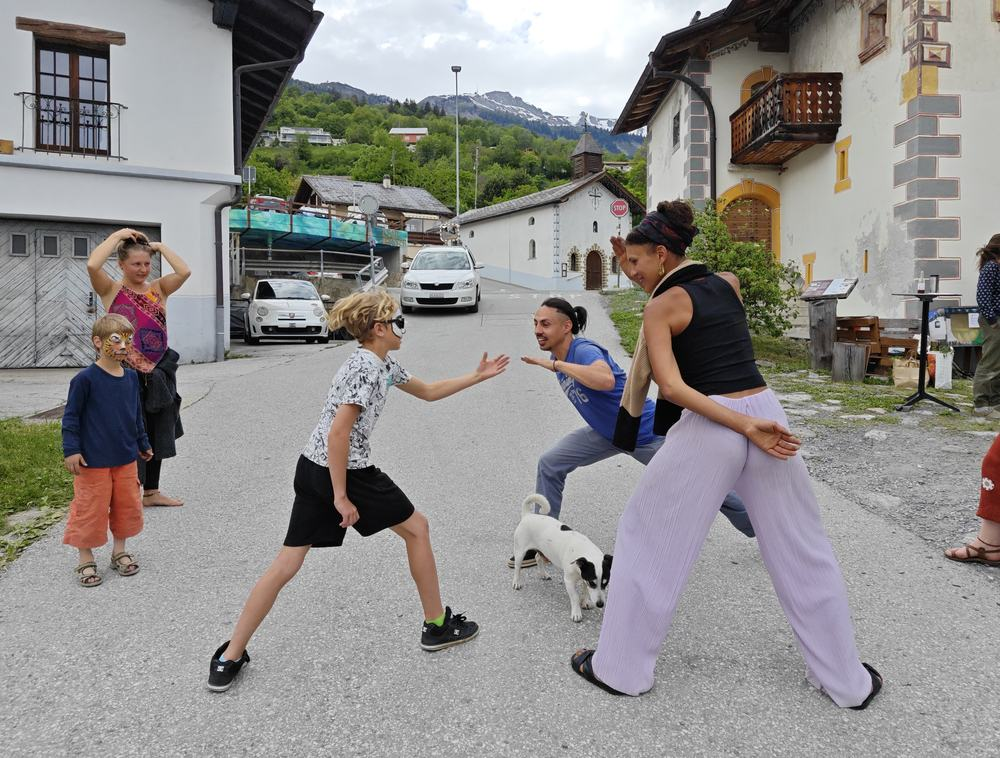
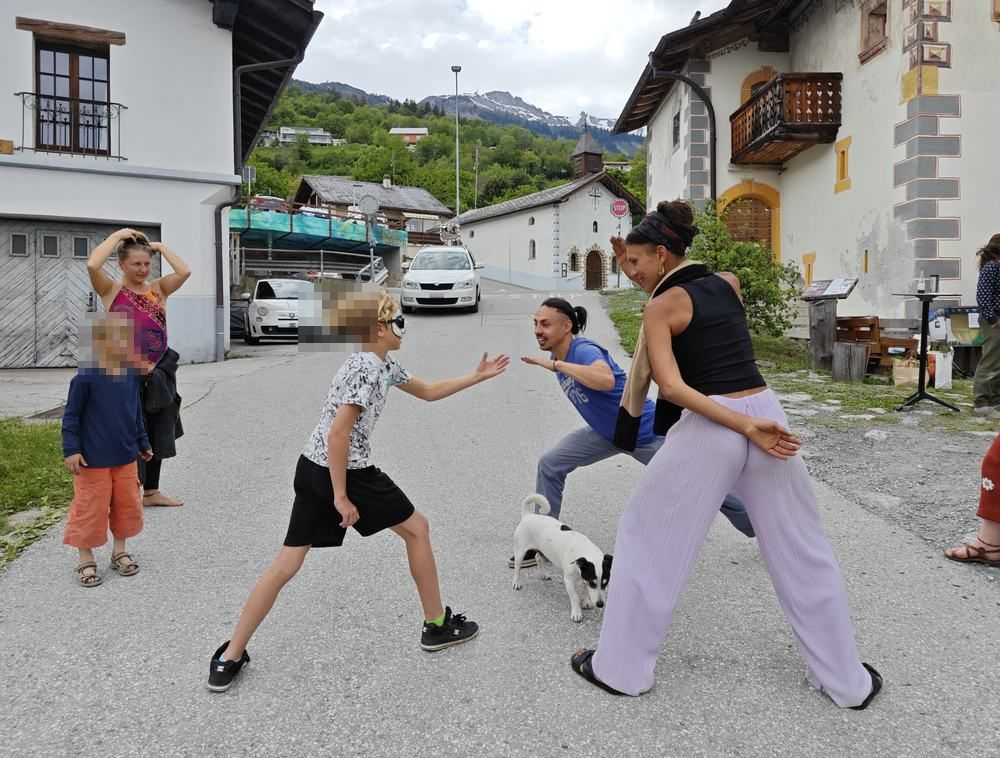
Corriger la pixelisation (visages seulement) et un bug de hauteur des flip cards
Pixelisation : l'effet mosaïque sur toute la photo ne correspondait pas à
la demande ("un tout petit peu" ou juste les visages). Retiré entièrement
des photos de mains (aucun visage, aucune raison de les flouter) et
remplacé sur la photo du jeu du ninja par une pixelisation localisée aux
deux visages d'enfants uniquement (crop + mosaïque + recollage), le reste
de la photo reste net. Fichiers -pixel.jpg (miniatures basse résolution)
supprimés, plus nécessaires. La photo du jeu du ninja peut désormais
aussi apparaître en vignette au verso (comme les 2 photos de mains),
puisque la protection des visages est maintenant dans le fichier lui-même.

Bug de hauteur (repéré par l'utilisateur sur Massage, présent aussi sur
Corps & expression) : au clic sur "Retour", la carte ne rétrécissait pas.
Cause : .flip-card__face est en position:absolute et épouse donc la
hauteur ACTUELLE de la carte, même quand son propre contenu est plus
court — scrollHeight mesurait alors la hauteur héritée de l'état ouvert,
pas la hauteur naturelle de la face fermée. Fix : mesure de la hauteur
naturelle en sortant brièvement la face du flux absolu (position:static)
avant de lire scrollHeight, sur les deux pages (fonction JS partagée).

Vérifié : cycle fermé→ouvert→fermé sur les 8 cartes des 2 pages, la
hauteur revient exactement à sa valeur initiale à chaque fois.

Changed region(s): [[0.279, 0.3641, 0.372, 0.4855], [0.062, 0.3945, 0.155, 0.5158]]

diff --git a/l5d2lm-corps-expression.html b/l5d2lm-corps-expression.html
@@ -11,8 +11,8 @@
   <meta property="og:title" content="Corps &amp; expression | Mouvement, jeu et danse consciente">
   <meta property="og:description" content="Propositions Corps et expression : Playful extatique, théâtre d’improvisation, réveil du corps, jeux de mouvement et À portée de main.">
   <meta property="og:image" content="https://toopil.github.io/l5d2lm-site/l5d2lm-logo-principal.png">
-  <link rel="stylesheet" href="l5d2lm-style.css?v=20260908b">
-  <script defer src="l5d2lm-script.js?v=20260908b"></script>
+  <link rel="stylesheet" href="l5d2lm-style.css?v=20260909a">
+  <script defer src="l5d2lm-script.js?v=20260909a"></script>
 </head>
 <body>
   <a class="skip-link" href="#contenu">Aller au contenu</a>
@@ -72,9 +72,9 @@
           <article class="flip-card flip-card--band flip-card--media-right flip-card--terracotta" id="playful-extatique">
             <div class="flip-card__inner">
               <div class="flip-card__face flip-card__face--front">
-                <div class="flip-card__media flip-card__media--pixel">
+                <div class="flip-card__media">
                   <span class="flip-card__band-number" aria-hidden="true">01</span>
-                  <img src="l5d2lm-photo-corps-expression-2-pixel.jpg" alt="" width="56" height="42">
+                  <img src="l5d2lm-photo-corps-expression-2.jpg" alt="" width="420" height="315">
                 </div>
                 <div class="flip-card__content">
                   <h3>Playful extatique</h3>
@@ -160,9 +160,9 @@
           <article class="flip-card flip-card--band flip-card--media-right flip-card--slate" id="jeux-de-mouvement">
             <div class="flip-card__inner">
               <div class="flip-card__face flip-card__face--front">
-                <div class="flip-card__media flip-card__media--pixel">
+                <div class="flip-card__media">
                   <span class="flip-card__band-number" aria-hidden="true">04</span>
-                  <img src="l5d2lm-photo-corps-expression-jeux-pixel.jpg" alt="" width="56" height="42">
+                  <img src="l5d2lm-photo-corps-expression-jeux.jpg" alt="" width="1000" height="758">
                 </div>
                 <div class="flip-card__content">
                   <h3>Jeux de mouvement</h3>
@@ -173,6 +173,7 @@
               </div>
               <div class="flip-card__face flip-card__face--back" id="jeux-de-mouvement-verso">
                 <button type="button" class="flip-card__back-link" data-flip-action="close" aria-expanded="true">← Retour</button>
+                <div class="flip-card__back-photo"><img src="l5d2lm-photo-corps-expression-jeux.jpg" alt=""></div>
                 <h3>Jeux de mouvement</h3>
                 <p>Jeu, théâtre d’improvisation, réveil du corps et danse réunis. Le contenu change selon l’âge, le lieu et l’énergie du moment.</p>
                 <ul class="check-list">
@@ -190,9 +191,9 @@
           <article class="flip-card flip-card--band flip-card--ample flip-card--earth" id="a-portee-de-main">
             <div class="flip-card__inner">
               <div class="flip-card__face flip-card__face--front">
-                <div class="flip-card__media flip-card__media--pixel">
+                <div class="flip-card__media">
                   <span class="flip-card__band-number" aria-hidden="true">05</span>
-                  <img src="l5d2lm-photo-corps-expression-4-pixel.jpg" alt="" width="56" height="75">
+                  <img src="l5d2lm-photo-corps-expression-4.jpg" alt="" width="420" height="560">
                 </div>
                 <div class="flip-card__content">
                   <h3>À portée de main</h3>

diff --git a/content/l5d2lm-corps-expression.html b/content/l5d2lm-corps-expression.html
@@ -32,9 +32,9 @@
           <article class="flip-card flip-card--band flip-card--media-right flip-card--terracotta" id="playful-extatique">
             <div class="flip-card__inner">
               <div class="flip-card__face flip-card__face--front">
-                <div class="flip-card__media flip-card__media--pixel">
+                <div class="flip-card__media">
                   <span class="flip-card__band-number" aria-hidden="true">01</span>
-                  <img src="l5d2lm-photo-corps-expression-2-pixel.jpg" alt="" width="56" height="42">
+                  <img src="l5d2lm-photo-corps-expression-2.jpg" alt="" width="420" height="315">
                 </div>
                 <div class="flip-card__content">
                   <h3>Playful extatique</h3>
@@ -120,9 +120,9 @@
           <article class="flip-card flip-card--band flip-card--media-right flip-card--slate" id="jeux-de-mouvement">
             <div class="flip-card__inner">
               <div class="flip-card__face flip-card__face--front">
-                <div class="flip-card__media flip-card__media--pixel">
+                <div class="flip-card__media">
                   <span class="flip-card__band-number" aria-hidden="true">04</span>
-                  <img src="l5d2lm-photo-corps-expression-jeux-pixel.jpg" alt="" width="56" height="42">
+                  <img src="l5d2lm-photo-corps-expression-jeux.jpg" alt="" width="1000" height="758">
                 </div>
                 <div class="flip-card__content">
                   <h3>Jeux de mouvement</h3>
@@ -133,6 +133,7 @@
               </div>
               <div class="flip-card__face flip-card__face--back" id="jeux-de-mouvement-verso">
                 <button type="button" class="flip-card__back-link" data-flip-action="close" aria-expanded="true">← Retour</button>
+                <div class="flip-card__back-photo"><img src="l5d2lm-photo-corps-expression-jeux.jpg" alt=""></div>
                 <h3>Jeux de mouvement</h3>
                 <p>Jeu, théâtre d’improvisation, réveil du corps et danse réunis. Le contenu change selon l’âge, le lieu et l’énergie du moment.</p>
                 <ul class="check-list">
@@ -150,9 +151,9 @@
           <article class="flip-card flip-card--band flip-card--ample flip-card--earth" id="a-portee-de-main">
             <div class="flip-card__inner">
               <div class="flip-card__face flip-card__face--front">
-                <div class="flip-card__media flip-card__media--pixel">
+                <div class="flip-card__media">
                   <span class="flip-card__band-number" aria-hidden="true">05</span>
-                  <img src="l5d2lm-photo-corps-expression-4-pixel.jpg" alt="" width="56" height="75">
+                  <img src="l5d2lm-photo-corps-expression-4.jpg" alt="" width="420" height="560">
                 </div>
                 <div class="flip-card__content">
                   <h3>À portée de main</h3>

diff --git a/l5d2lm-script.js b/l5d2lm-script.js
@@ -112,13 +112,25 @@ document.addEventListener('DOMContentLoaded', () => {
   // la hauteur de la carte suit la face affichée pour ne jamais couper le texte.
   const flipCards = document.querySelectorAll('.flip-card');
   if (flipCards.length) {
+    // Une face en position:absolute épouse la hauteur actuelle de sa carte
+    // (même quand son propre contenu est plus court) : scrollHeight seul ne
+    // peut donc pas mesurer sa hauteur naturelle lors d'un rétrécissement.
+    // On la sort brièvement du flux absolu pour lire sa vraie hauteur.
+    const measureNaturalHeight = (face) => {
+      const previousPosition = face.style.position;
+      face.style.position = 'static';
+      const height = face.scrollHeight;
+      face.style.position = previousPosition;
+      return height;
+    };
+
     const setFlipped = (card, flipped) => {
       const inner = card.querySelector('.flip-card__inner');
       const front = card.querySelector('.flip-card__face--front');
       const back = card.querySelector('.flip-card__face--back');
       const activeFace = flipped ? back : front;
 
-      if (inner && activeFace) inner.style.height = activeFace.scrollHeight + 'px';
+      if (inner && activeFace) inner.style.height = measureNaturalHeight(activeFace) + 'px';
       card.classList.toggle('is-flipped', flipped);
 
       if (front) {

diff --git a/l5d2lm-index.html b/l5d2lm-index.html
@@ -11,8 +11,8 @@
   <meta property="og:title" content="Les 5 doigts de la main | Ateliers, massages et projets collectifs en Valais">
   <meta property="og:description" content="Les 5 doigts de la main rassemble en Suisse romande et en France des ateliers, massages intuitifs, colos pour adultes, animations participatives et espaces pour créer du lien.">
   <meta property="og:image" content="https://toopil.github.io/l5d2lm-site/l5d2lm-logo-principal.png">
-  <link rel="stylesheet" href="l5d2lm-style.css?v=20260908b">
-  <script defer src="l5d2lm-script.js?v=20260908b"></script>
+  <link rel="stylesheet" href="l5d2lm-style.css?v=20260909a">
+  <script defer src="l5d2lm-script.js?v=20260909a"></script>
 </head>
 <body>
   <a class="skip-link" href="#contenu">Aller au contenu</a>

diff --git a/l5d2lm-espaces-a-decouvrir.html b/l5d2lm-espaces-a-decouvrir.html
@@ -11,8 +11,8 @@
   <meta property="og:title" content="Espaces à découvrir | Initiatives locales, lieux et projets inspirants">
   <meta property="og:description" content="Espaces à découvrir rassemble des lieux, associations, écoles, initiatives et projets existants à faire connaître en Valais, Suisse romande et ailleurs.">
   <meta property="og:image" content="https://toopil.github.io/l5d2lm-site/l5d2lm-logo-principal.png">
-  <link rel="stylesheet" href="l5d2lm-style.css?v=20260908b">
-  <script defer src="l5d2lm-script.js?v=20260908b"></script>
+  <link rel="stylesheet" href="l5d2lm-style.css?v=20260909a">
+  <script defer src="l5d2lm-script.js?v=20260909a"></script>
 </head>
 <body>
   <a class="skip-link" href="#contenu">Aller au contenu</a>

diff --git a/l5d2lm-massage-intuitif-reveil-energetique.html b/l5d2lm-massage-intuitif-reveil-energetique.html
@@ -11,8 +11,8 @@
   <meta property="og:title" content="Massage intuitif, massage aquatique &amp; réveil énergétique en Valais">
   <meta property="og:description" content="Massage intuitif, massage aquatique, réveil énergétique et formation collective en Valais, Suisse romande et événements sur demande.">
   <meta property="og:image" content="https://toopil.github.io/l5d2lm-site/l5d2lm-logo-principal.png">
-  <link rel="stylesheet" href="l5d2lm-style.css?v=20260908b">
-  <script defer src="l5d2lm-script.js?v=20260908b"></script>
+  <link rel="stylesheet" href="l5d2lm-style.css?v=20260909a">
+  <script defer src="l5d2lm-script.js?v=20260909a"></script>
 </head>
 <body>
   <a class="skip-link" href="#contenu">Aller au contenu</a>

diff --git a/l5d2lm-animations-participatives.html b/l5d2lm-animations-participatives.html
@@ -11,8 +11,8 @@
   <meta property="og:title" content="Animation participative | Être acteur plutôt que spectateur">
   <meta property="og:description" content="Une animation participative adaptable pour festivals, fêtes, associations et événements : jeux, mouvement, défis et photos de groupe marquantes.">
   <meta property="og:image" content="https://toopil.github.io/l5d2lm-site/l5d2lm-logo-principal.png">
-  <link rel="stylesheet" href="l5d2lm-style.css?v=20260908b">
-  <script defer src="l5d2lm-script.js?v=20260908b"></script>
+  <link rel="stylesheet" href="l5d2lm-style.css?v=20260909a">
+  <script defer src="l5d2lm-script.js?v=20260909a"></script>
 </head>
 <body>
   <a class="skip-link" href="#contenu">Aller au contenu</a>

diff --git a/l5d2lm-colos-sejours.html b/l5d2lm-colos-sejours.html
@@ -11,8 +11,8 @@
   <meta property="og:title" content="Colo pour adultes | Un séjour construit avec le groupe">
   <meta property="og:description" content="Une colo pour adultes à construire ensemble à partir de 15 participants : rencontres, jeux, partages et propositions apportées par le groupe.">
   <meta property="og:image" content="https://toopil.github.io/l5d2lm-site/l5d2lm-logo-principal.png">
-  <link rel="stylesheet" href="l5d2lm-style.css?v=20260908b">
-  <script defer src="l5d2lm-script.js?v=20260908b"></script>
+  <link rel="stylesheet" href="l5d2lm-style.css?v=20260909a">
+  <script defer src="l5d2lm-script.js?v=20260909a"></script>
 </head>
 <body>
   <a class="skip-link" href="#contenu">Aller au contenu</a>

diff --git a/l5d2lm-contact.html b/l5d2lm-contact.html
@@ -11,8 +11,8 @@
   <meta property="og:title" content="Contact | Les 5 doigts de la main en Valais">
   <meta property="og:description" content="Contact et demandes pour Les 5 doigts de la main : ateliers, massages, colos, animations ou espaces à découvrir.">
   <meta property="og:image" content="https://toopil.github.io/l5d2lm-site/l5d2lm-logo-principal.png">
-  <link rel="stylesheet" href="l5d2lm-style.css?v=20260908b">
-  <script defer src="l5d2lm-script.js?v=20260908b"></script>
+  <link rel="stylesheet" href="l5d2lm-style.css?v=20260909a">
+  <script defer src="l5d2lm-script.js?v=20260909a"></script>
 </head>
 <body>
   <a class="skip-link" href="#contenu">Aller au contenu</a>

diff --git a/l5d2lm-mentions-legales.html b/l5d2lm-mentions-legales.html
@@ -11,8 +11,8 @@
   <meta property="og:title" content="Mentions légales | Les 5 doigts de la main">
   <meta property="og:description" content="Mentions légales du site Les 5 doigts de la main : éditeur, contact et hébergement.">
   <meta property="og:image" content="https://toopil.github.io/l5d2lm-site/l5d2lm-logo-principal.png">
-  <link rel="stylesheet" href="l5d2lm-style.css?v=20260908b">
-  <script defer src="l5d2lm-script.js?v=20260908b"></script>
+  <link rel="stylesheet" href="l5d2lm-style.css?v=20260909a">
+  <script defer src="l5d2lm-script.js?v=20260909a"></script>
 </head>
 <body>
   <a class="skip-link" href="#contenu">Aller au contenu</a>

diff --git a/l5d2lm-mission-declic.html b/l5d2lm-mission-declic.html
@@ -12,8 +12,8 @@
   <meta property="og:title" content="Page en construction | Les 5 doigts de la main">
   <meta property="og:description" content="Cette page des 5 doigts de la main est temporairement en construction.">
   <meta property="og:image" content="https://toopil.github.io/l5d2lm-site/l5d2lm-logo-principal.png">
-  <link rel="stylesheet" href="l5d2lm-style.css?v=20260908b">
-  <script defer src="l5d2lm-script.js?v=20260908b"></script>
+  <link rel="stylesheet" href="l5d2lm-style.css?v=20260909a">
+  <script defer src="l5d2lm-script.js?v=20260909a"></script>
 </head>
 <body>
   <a class="skip-link" href="#contenu">Aller au contenu</a>

diff --git a/l5d2lm-style.css b/l5d2lm-style.css
@@ -292,7 +292,6 @@ h3 { font-size: 1.2rem; margin: 0 0 0.5rem; }
   background: linear-gradient(135deg, rgba(75, 58, 47, 0.07), rgba(75, 58, 47, 0.02));
 }
 .flip-card__media img { width: 100%; height: 100%; object-fit: cover; display: block; }
-.flip-card__media--pixel img { image-rendering: pixelated; }
 .flip-card__media--placeholder {
   background-image: radial-gradient(circle, rgba(75, 58, 47, 0.16) 1.5px, transparent 1.8px);
   background-size: 20px 20px;
